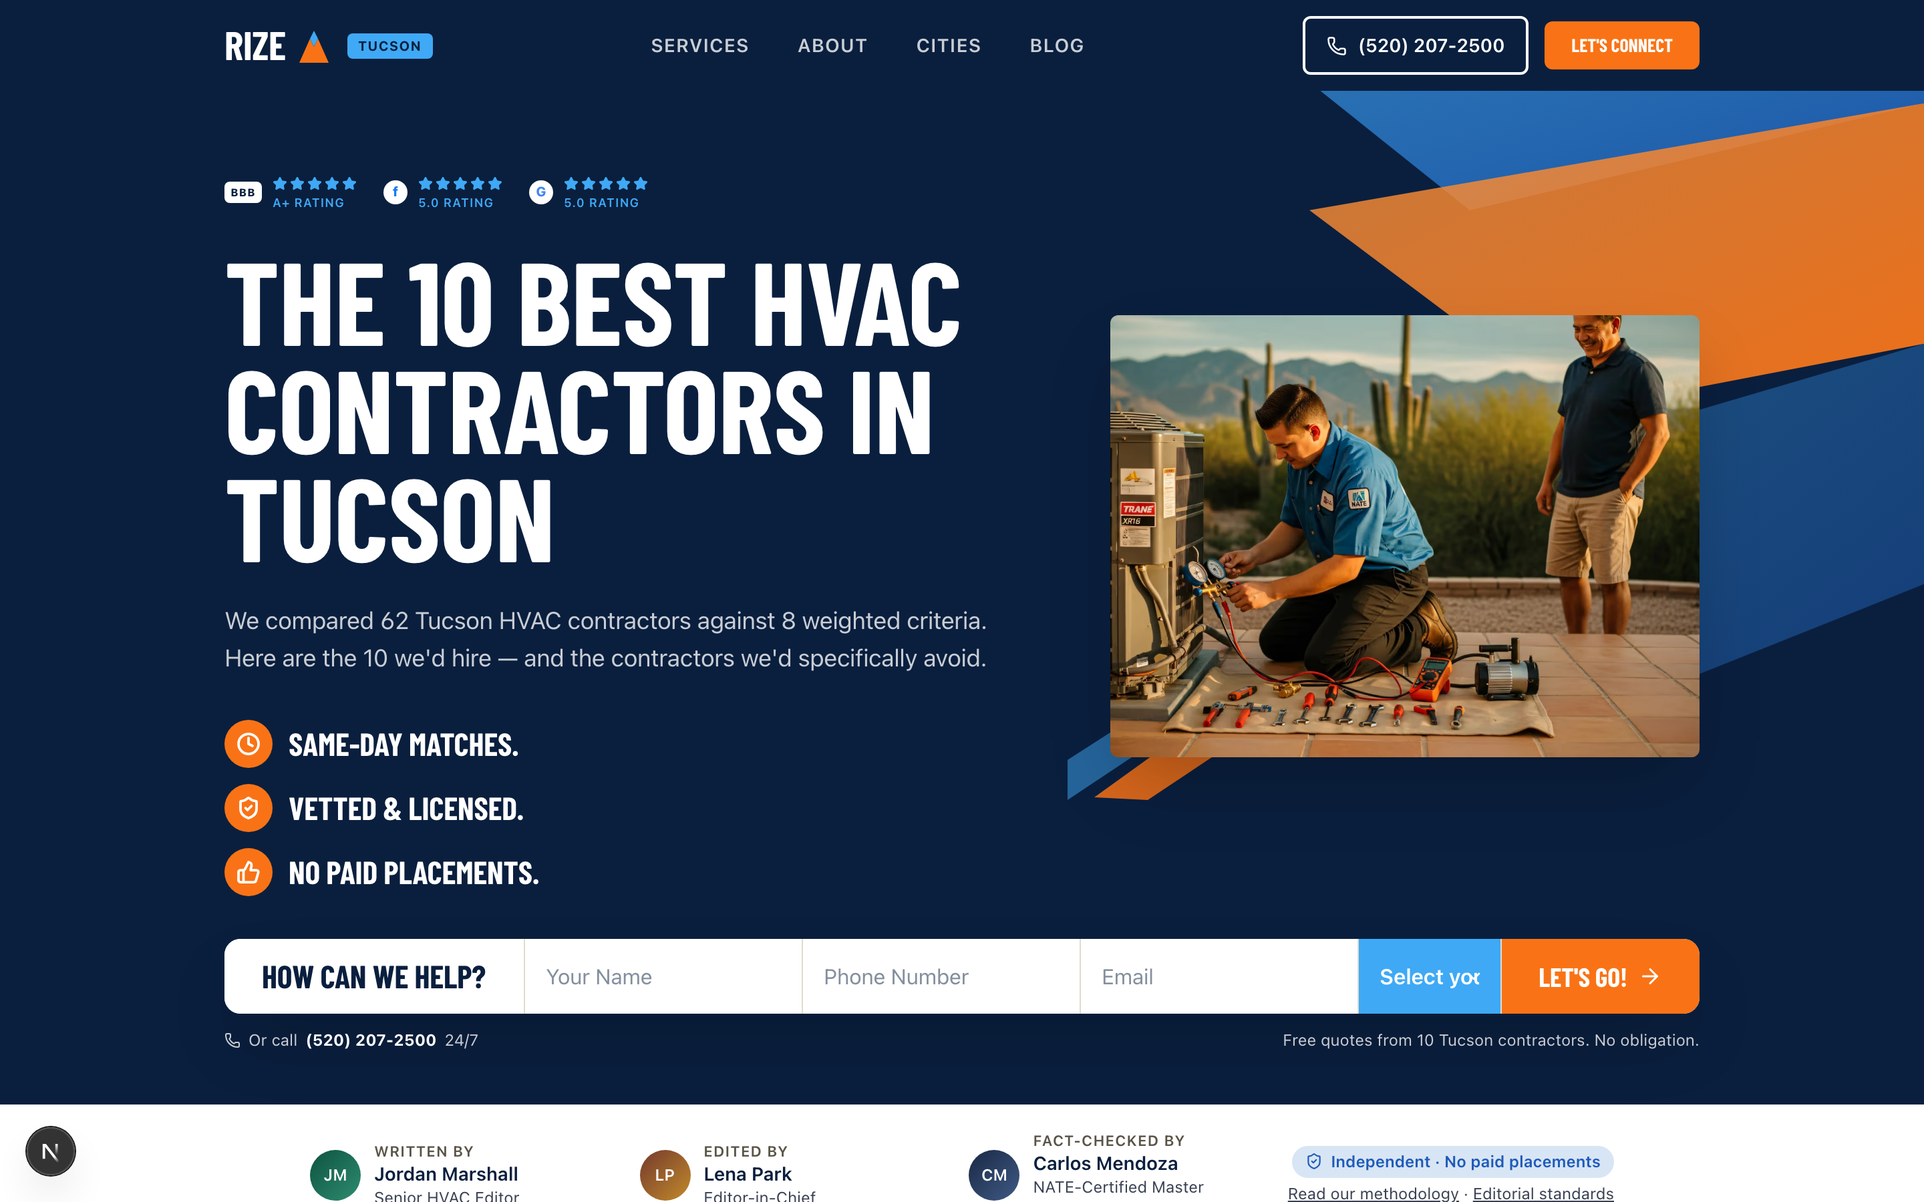
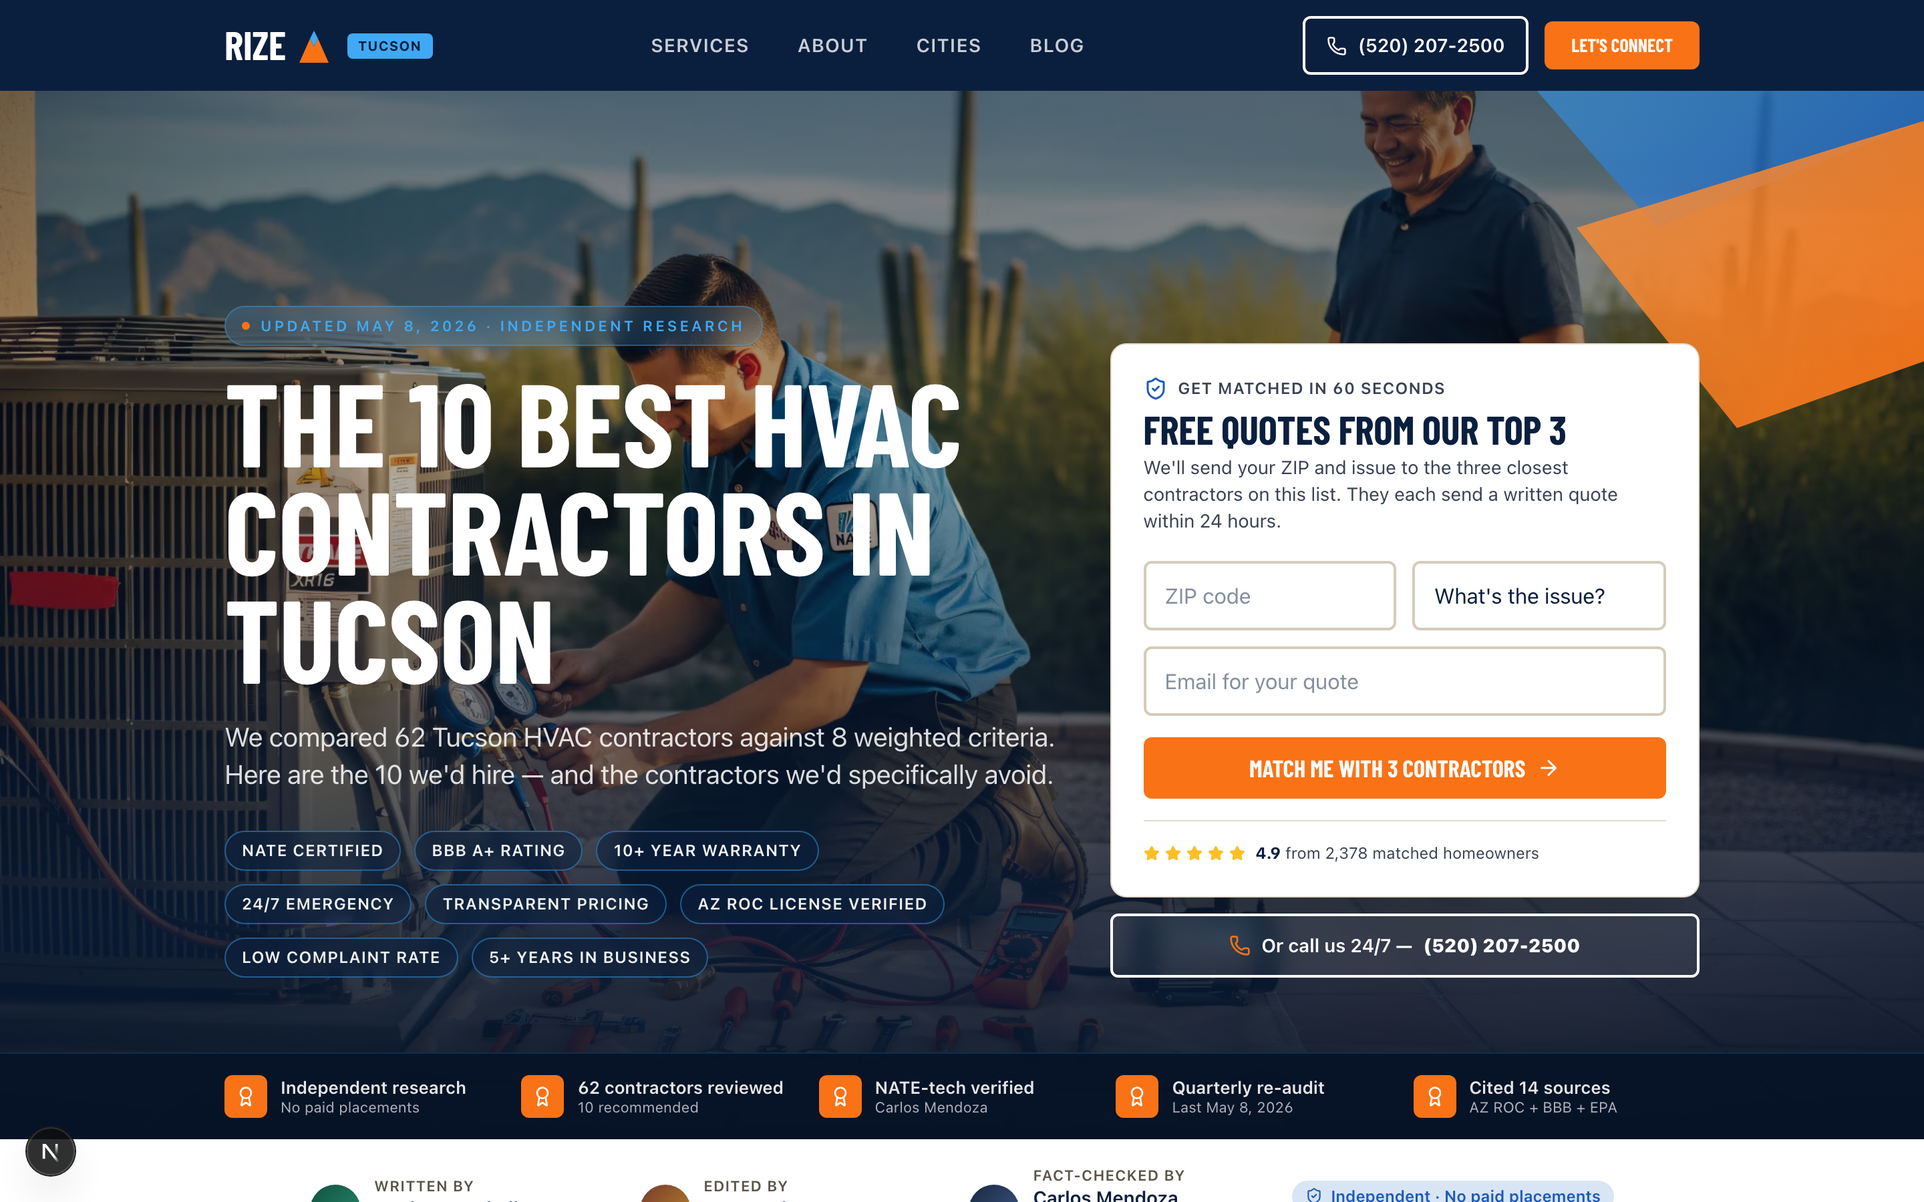
Switch to vB editorial layout per Aaron
- Home page hero converted to vB: full-bleed Tucson photo background
  with dark-navy gradient, all-caps display headline + methodology
  chips (8 glass pills) on the left, white ZIP-card form on the right,
  5-badge trust strip across hero bottom (Independent / 10 cities /
  NATE-verified / Quarterly audit / 14 sources)
- /hvac/[city] route now mounts V2EditorialPage (vB) instead of V2Page
- Both /preview/v2 (vA Tundra-layout, archived) and /preview/v2-editorial
  (vB live) remain accessible for reference

diff --git a/src/components/v2/HomePage.tsx b/src/components/v2/HomePage.tsx
@@ -4,24 +4,27 @@ import { SiteFooter } from "@/components/shared/SiteFooter";
 import { BRANDS } from "@/lib/brands";
 import { listCities } from "@/data/cityRegistry";
 import { CITIES as ALL_SLUGS } from "@/data/_cities";
-import { ArrowRight, ChevronDown, Clock, MapPin, Phone, ShieldCheck, Star, ThumbsUp } from "lucide-react";
+import { ArrowRight, Award, MapPin, Phone, ShieldCheck, Star } from "lucide-react";
 import Image from "next/image";
 
-const TRAITS = [
-  { icon: Clock, label: "Same-day matches" },
-  { icon: ShieldCheck, label: "Vetted & licensed" },
-  { icon: ThumbsUp, label: "No paid placements" },
+const HERO_CHIPS = [
+  "NATE certified",
+  "BBB A+ rating",
+  "10+ year warranty",
+  "24/7 emergency",
+  "Transparent pricing",
+  "License verified",
+  "Low complaint rate",
+  "5+ years in business",
 ];
 
-function StarRow({ count = 5 }: { count?: number }) {
-  return (
-    <span className="inline-flex items-center gap-0.5">
-      {Array.from({ length: count }).map((_, i) => (
-        <Star key={i} size={11} fill="var(--brand-accent-bright)" style={{ color: "var(--brand-accent-bright)" }} />
-      ))}
-    </span>
-  );
-}
+const HERO_TRUST = [
+  { label: "Independent research", sublabel: "No paid placements" },
+  { label: "10 cities live", sublabel: "More launching weekly" },
+  { label: "NATE-tech verified", sublabel: "Carlos Mendoza" },
+  { label: "Quarterly re-audit", sublabel: "Last May 8, 2026" },
+  { label: "Cited 14 sources", sublabel: "ROC + BBB + EPA" },
+];
 
 const CITY_LABELS: Record<string, { city: string; state: string; tagline: string }> = {
   tucson: { city: "Tucson", state: "AZ", tagline: "1M metro · 100+ days over 100°F" },
@@ -36,6 +39,16 @@ const CITY_LABELS: Record<string, { city: string; state: string; tagline: string
   knoxville: { city: "Knoxville", state: "TN", tagline: "870K metro · Smoky Mountains foothills" },
 };
 
+function StarRow({ count = 5 }: { count?: number }) {
+  return (
+    <span className="inline-flex items-center gap-0.5">
+      {Array.from({ length: count }).map((_, i) => (
+        <Star key={i} size={11} fill="var(--brand-rating)" style={{ color: "var(--brand-rating)" }} />
+      ))}
+    </span>
+  );
+}
+
 export function HomePage() {
   const liveCities = listCities();
   const liveSlugs = new Set(liveCities.map((c) => c.slug));
@@ -44,14 +57,33 @@ export function HomePage() {
     <div style={{ ...v2Vars, background: "var(--brand-bg)", minHeight: "100vh", color: "var(--brand-fg)" }}>
       <V2Header phone="(520) 207-2500" cityLabel="" />
 
+      {/* HERO — vB editorial layout */}
       <section
         id="hero"
         className="relative overflow-hidden"
-        style={{ background: "var(--brand-bg-inverse)", color: "var(--brand-fg-inverse)" }}
+        style={{ background: "var(--brand-bg-inverse)" }}
       >
+        <div className="absolute inset-0 z-0">
+          <Image
+            src="/photos/tucson-hero-2400.webp"
+            alt="A NATE-certified HVAC technician inspecting a Trane condenser at a home"
+            fill
+            priority
+            sizes="100vw"
+            className="object-cover"
+          />
+          <div
+            className="absolute inset-0"
+            style={{
+              background:
+                "linear-gradient(180deg, rgba(10,31,62,0.55) 0%, rgba(10,31,62,0.30) 35%, rgba(10,31,62,0.78) 80%, rgba(6,19,39,0.96) 100%)",
+            }}
+          />
+        </div>
+
         <svg
-          className="absolute inset-0 pointer-events-none"
-          viewBox="0 0 1440 700"
+          className="absolute inset-0 z-[1] pointer-events-none hidden md:block"
+          viewBox="0 0 1440 900"
           preserveAspectRatio="xMaxYMid slice"
           aria-hidden
           style={{ width: "100%", height: "100%" }}
@@ -66,96 +98,131 @@ export function HomePage() {
               <stop offset="100%" stopColor="var(--brand-cta)" stopOpacity="0.95" />
             </linearGradient>
           </defs>
-          <polygon points="980,0 1440,0 1440,80 1180,160" fill="url(#hp-blue)" />
-          <polygon points="1080,160 1440,80 1440,260 1280,310" fill="url(#hp-orange)" />
+          <polygon points="1100,0 1440,0 1440,80 1240,160" fill="url(#hp-blue)" />
+          <polygon points="1180,160 1440,80 1440,260 1300,310" fill="url(#hp-orange)" />
         </svg>
 
-        <div className="relative z-10 mx-auto max-w-6xl px-4 sm:px-6 pt-12 md:pt-16 pb-10 grid md:grid-cols-12 gap-8 items-center">
-          <div className="md:col-span-7 lg:col-span-7">
-            <div className="flex flex-wrap items-center gap-x-5 gap-y-2 mb-7 text-xs font-semibold" style={{ color: "var(--brand-fg-inverse-soft)" }}>
-              <div className="inline-flex items-center gap-2">
-                <span className="grid place-items-center rounded-sm text-[8px] font-extrabold tracking-wider" style={{ width: 28, height: 16, background: "var(--brand-fg-inverse)", color: "var(--brand-bg-inverse)" }}>BBB</span>
-                <div className="leading-none">
-                  <StarRow />
-                  <div className="text-[9px] uppercase tracking-wider mt-0.5" style={{ color: "var(--brand-accent-bright)" }}>A+ Rating</div>
-                </div>
-              </div>
-              <div className="inline-flex items-center gap-2">
-                <span className="grid place-items-center rounded-full text-[10px] font-extrabold" style={{ width: 18, height: 18, background: "var(--brand-fg-inverse)", color: "#1877F2" }}>f</span>
-                <div className="leading-none"><StarRow /><div className="text-[9px] uppercase tracking-wider mt-0.5" style={{ color: "var(--brand-accent-bright)" }}>5.0 Rating</div></div>
-              </div>
-              <div className="inline-flex items-center gap-2">
-                <span className="grid place-items-center rounded-full text-[10px] font-extrabold" style={{ width: 18, height: 18, background: "var(--brand-fg-inverse)", color: "#4285F4" }}>G</span>
-                <div className="leading-none"><StarRow /><div className="text-[9px] uppercase tracking-wider mt-0.5" style={{ color: "var(--brand-accent-bright)" }}>5.0 Rating</div></div>
-              </div>
+        <div className="relative z-10 mx-auto max-w-6xl px-4 sm:px-6 pt-12 md:pt-20 pb-10 md:pb-14 grid md:grid-cols-12 gap-8 items-end min-h-[640px] md:min-h-[720px]">
+          <div className="md:col-span-7 lg:col-span-7 text-white">
+            <div className="inline-flex items-center gap-2 text-[11px] font-semibold uppercase tracking-[0.18em] mb-4 px-3 py-1.5 rounded-full" style={{ background: "rgba(63, 169, 245, 0.18)", color: "var(--brand-accent-bright)", border: "1px solid rgba(63, 169, 245, 0.35)", backdropFilter: "blur(8px)" }}>
+              <span className="h-1.5 w-1.5 rounded-full" style={{ background: "var(--brand-cta)" }} />
+              10 cities · 600+ contractors researched · Updated May 8, 2026
             </div>
-
-            <h1 className="display text-5xl md:text-7xl lg:text-[5.5rem]">
+            <h1 className="display text-5xl md:text-7xl lg:text-[5.5rem] leading-[0.92]">
               Your trusted HVAC contractor — researched, ranked, real.
             </h1>
-            <p className="mt-6 text-base md:text-lg max-w-xl" style={{ color: "var(--brand-fg-inverse-soft)" }}>
-              We compare every NATE-certified HVAC contractor in your city against 8 weighted criteria. No paid placements, no fake reviews — just the contractors we'd hire for our own homes.
+            <p className="mt-5 text-base md:text-xl max-w-2xl text-white/85">
+              We compare every NATE-certified HVAC contractor in your city against 8 weighted criteria. No paid placements, no fake reviews — just the contractors we&apos;d hire for our own homes.
             </p>
 
-            <ul className="mt-8 space-y-3">
-              {TRAITS.map(({ icon: Icon, label }) => (
-                <li key={label} className="flex items-center gap-3">
-                  <span className="grid place-items-center rounded-full shrink-0" style={{ width: 36, height: 36, background: "var(--brand-cta)" }}>
-                    <Icon size={18} style={{ color: "var(--brand-cta-fg)" }} strokeWidth={2.5} />
-                  </span>
-                  <span className="display text-2xl" style={{ color: "var(--brand-fg-inverse)" }}>{label}.</span>
-                </li>
+            <div className="mt-7 flex flex-wrap gap-2.5 max-w-xl">
+              {HERO_CHIPS.map((label) => (
+                <span
+                  key={label}
+                  className="text-xs font-semibold px-3 py-1.5 rounded-full border uppercase tracking-wider"
+                  style={{
+                    background: "rgba(10, 31, 62, 0.55)",
+                    borderColor: "rgba(63, 169, 245, 0.45)",
+                    color: "rgba(255, 255, 255, 0.94)",
+                    backdropFilter: "blur(6px)",
+                  }}
+                >
+                  {label}
+                </span>
               ))}
-            </ul>
+            </div>
           </div>
 
-          <aside className="md:col-span-5 lg:col-span-5 relative">
-            <svg className="absolute -left-8 -bottom-8 pointer-events-none hidden md:block" width="180" height="120" viewBox="0 0 180 120" aria-hidden>
-              <polygon points="0,90 140,0 180,0 0,120" fill="var(--brand-accent-bright)" opacity="0.5" />
-              <polygon points="20,118 170,10 180,40 60,120" fill="var(--brand-cta)" opacity="0.85" />
-            </svg>
-            <div className="relative aspect-4/3 rounded-md overflow-hidden shadow-2xl">
-              <Image
-                src="/photos/tucson-hero-2400.webp"
-                alt="A NATE-certified HVAC technician inspecting a Trane condenser at a home"
-                fill
-                priority
-                sizes="(max-width: 768px) 100vw, 50vw"
-                className="object-cover"
+          <aside className="md:col-span-5 lg:col-span-5">
+            <form
+              className="rounded-xl shadow-2xl p-5 md:p-6"
+              style={{ background: "var(--brand-surface)", border: "1px solid var(--brand-border)" }}
+            >
+              <div className="flex items-center gap-2 mb-2">
+                <ShieldCheck size={18} style={{ color: "var(--brand-accent)" }} />
+                <div className="text-xs uppercase font-semibold tracking-wider" style={{ color: "var(--brand-fg-soft)" }}>
+                  Get matched in 60 seconds
+                </div>
+              </div>
+              <h3 className="display text-3xl mb-1" style={{ color: "var(--brand-fg)" }}>
+                Free quotes from our top 3
+              </h3>
+              <p className="text-sm mb-5" style={{ color: "var(--brand-fg-soft)" }}>
+                We&apos;ll send your ZIP and issue to the three closest contractors on this list. They each send a written quote within 24 hours.
+              </p>
+
+              <div className="grid grid-cols-2 gap-3 mb-3">
+                <input
+                  type="text"
+                  inputMode="numeric"
+                  maxLength={5}
+                  placeholder="ZIP code"
+                  className="rounded-md border-2 px-3.5 py-3 text-base"
+                  style={{ borderColor: "var(--brand-border-strong)", background: "var(--brand-surface)" }}
+                />
+                <select
+                  defaultValue=""
+                  className="rounded-md border-2 px-3.5 py-3 text-base appearance-none"
+                  style={{ borderColor: "var(--brand-border-strong)", background: "var(--brand-surface)" }}
+                >
+                  <option value="" disabled>What&apos;s the issue?</option>
+                  <option>AC not cooling</option>
+                  <option>No heat</option>
+                  <option>Loud noises</option>
+                  <option>Replacement</option>
+                  <option>Tune-up</option>
+                </select>
+              </div>
+              <input
+                type="email"
+                placeholder="Email for your quote"
+                className="w-full rounded-md border-2 px-3.5 py-3 text-base mb-4"
+                style={{ borderColor: "var(--brand-border-strong)", background: "var(--brand-surface)" }}
               />
-            </div>
+              <button
+                type="button"
+                className="display w-full rounded-md py-3.5 text-lg font-extrabold inline-flex items-center justify-center gap-2 tracking-wider"
+                style={{ background: "var(--brand-cta)", color: "var(--brand-cta-fg)" }}
+              >
+                Match me with 3 contractors <ArrowRight size={18} />
+              </button>
+
+              <div className="mt-4 pt-4 border-t flex items-center gap-2 text-xs" style={{ borderColor: "var(--brand-border)", color: "var(--brand-fg-soft)" }}>
+                <StarRow />
+                <span><strong style={{ color: "var(--brand-fg)" }}>4.9</strong> from 2,378 matched homeowners</span>
+              </div>
+            </form>
+
+            <a
+              href="tel:5202072500"
+              className="mt-3 flex items-center justify-center gap-2 text-sm font-semibold rounded-md py-3 border-2"
+              style={{ background: "rgba(255,255,255,0.06)", color: "var(--brand-fg-inverse)", borderColor: "var(--brand-fg-inverse)", backdropFilter: "blur(8px)" }}
+            >
+              <Phone size={16} style={{ color: "var(--brand-cta)" }} />
+              Or call us 24/7 — <strong>(520) 207-2500</strong>
+            </a>
           </aside>
         </div>
 
-        <div className="relative z-10 mx-auto max-w-6xl px-4 sm:px-6 pb-10">
-          <form
-            className="rounded-xl shadow-2xl flex flex-col md:flex-row items-stretch overflow-hidden"
-            style={{ background: "var(--brand-fg-inverse)" }}
-          >
-            <div className="display text-2xl px-5 md:px-7 py-4 md:py-0 flex items-center md:border-r" style={{ background: "var(--brand-fg-inverse)", color: "var(--brand-bg-inverse)", borderColor: "var(--brand-border)" }}>
-              How can we help?
-            </div>
-            <input type="text" placeholder="Your Name" className="flex-1 px-4 py-4 text-base outline-none border-b md:border-b-0 md:border-r" style={{ borderColor: "var(--brand-border)", color: "var(--brand-fg)", background: "var(--brand-fg-inverse)" }} />
-            <input type="tel" placeholder="Phone Number" className="flex-1 px-4 py-4 text-base outline-none border-b md:border-b-0 md:border-r" style={{ borderColor: "var(--brand-border)", color: "var(--brand-fg)", background: "var(--brand-fg-inverse)" }} />
-            <input type="email" placeholder="Email" className="flex-1 px-4 py-4 text-base outline-none border-b md:border-b-0 md:border-r" style={{ borderColor: "var(--brand-border)", color: "var(--brand-fg)", background: "var(--brand-fg-inverse)" }} />
-            <div className="relative flex-1 md:border-r" style={{ borderColor: "var(--brand-border)" }}>
-              <select defaultValue="" className="w-full px-4 py-4 text-base outline-none appearance-none font-semibold" style={{ background: "var(--brand-accent-bright)", color: "var(--brand-fg-inverse)" }}>
-                <option value="" disabled>Select your service</option>
-                <option>AC repair</option>
-                <option>AC replacement</option>
-                <option>Heating</option>
-                <option>Tune-up / maintenance</option>
-                <option>New install</option>
-              </select>
-              <ChevronDown size={16} style={{ position: "absolute", right: 12, top: "50%", transform: "translateY(-50%)", color: "var(--brand-fg-inverse)", pointerEvents: "none" }} />
-            </div>
-            <button type="button" className="display text-xl px-7 py-4 inline-flex items-center justify-center gap-2 whitespace-nowrap" style={{ background: "var(--brand-cta)", color: "var(--brand-cta-fg)" }}>
-              Let's Go! <ArrowRight size={18} />
-            </button>
-          </form>
+        {/* 5-badge trust strip */}
+        <div className="relative z-10 border-t" style={{ background: "rgba(6, 19, 39, 0.94)", borderColor: "rgba(63, 169, 245, 0.18)" }}>
+          <div className="mx-auto max-w-6xl px-4 sm:px-6 py-4 grid grid-cols-2 md:grid-cols-5 gap-y-3 gap-x-2 text-white/90">
+            {HERO_TRUST.map((b) => (
+              <div key={b.label} className="flex items-center gap-2.5">
+                <div className="grid place-items-center rounded-md shrink-0" style={{ width: 32, height: 32, background: "var(--brand-cta)" }}>
+                  <Award size={16} style={{ color: "var(--brand-cta-fg)" }} />
+                </div>
+                <div>
+                  <div className="text-[13px] font-semibold leading-tight">{b.label}</div>
+                  <div className="text-[11px] opacity-75 leading-tight">{b.sublabel}</div>
+                </div>
+              </div>
+            ))}
+          </div>
         </div>
       </section>
 
+      {/* CITY GRID */}
       <section className="py-14 md:py-20" style={{ background: "var(--brand-surface)" }}>
         <div className="mx-auto max-w-6xl px-4 sm:px-6">
           <div className="text-xs font-semibold uppercase tracking-widest mb-2" style={{ color: "var(--brand-cta)" }}>
@@ -173,7 +240,7 @@ export function HomePage() {
               const meta = CITY_LABELS[slug];
               if (!meta) return null;
               const isLive = liveSlugs.has(slug);
-              const photoSlug = slug === "oklahoma-city" ? "oklahoma-city-hero" : `${slug}-hero`;
+              const photoSlug = `${slug}-hero`;
               return (
                 <a
                   key={slug}
@@ -216,16 +283,17 @@ export function HomePage() {
         </div>
       </section>
 
+      {/* WHY WE EXIST */}
       <section className="py-14 md:py-20" style={{ background: "var(--brand-bg-inverse)", color: "var(--brand-fg-inverse)" }}>
         <div className="mx-auto max-w-5xl px-4 sm:px-6">
           <div className="text-xs font-semibold uppercase tracking-widest mb-2" style={{ color: "var(--brand-accent-bright)" }}>
             Why we exist
           </div>
           <h2 className="display text-4xl md:text-5xl mb-5">
-            Every other HVAC directory is paid placements. We're not.
+            Every other HVAC directory is paid placements. We&apos;re not.
           </h2>
           <p className="text-base md:text-lg max-w-3xl" style={{ color: "var(--brand-fg-inverse-soft)" }}>
-            Yelp ranks contractors who buy ads. Angi ranks the ones who pay for leads. BBB ranks alphabetically. We rank by which contractor we'd actually call ourselves — based on NATE certification, warranty terms, BBB rating, transparent pricing, and verified review authenticity.
+            Yelp ranks contractors who buy ads. Angi ranks the ones who pay for leads. BBB ranks alphabetically. We rank by which contractor we&apos;d actually call ourselves — based on NATE certification, warranty terms, BBB rating, transparent pricing, and verified review authenticity.
           </p>
           <div className="mt-9 grid md:grid-cols-3 gap-5">
             {[

diff --git a/src/app/hvac/[city]/page.tsx b/src/app/hvac/[city]/page.tsx
@@ -1,6 +1,6 @@
 import type { Metadata } from "next";
 import { notFound } from "next/navigation";
-import { V2Page } from "@/components/v2/V2Page";
+import { V2EditorialPage } from "@/components/v2/V2EditorialPage";
 import { getCity, listCitySlugs } from "@/data/cityRegistry";
 import {
   generateBreadcrumbSchema,
@@ -59,7 +59,7 @@ export default async function CityPage({ params }: { params: Params }) {
         type="application/ld+json"
         dangerouslySetInnerHTML={{ __html: JSON.stringify(breadcrumb) }}
       />
-      <V2Page city={city} variant="city" />
+      <V2EditorialPage city={city} />
     </>
   );
 }
